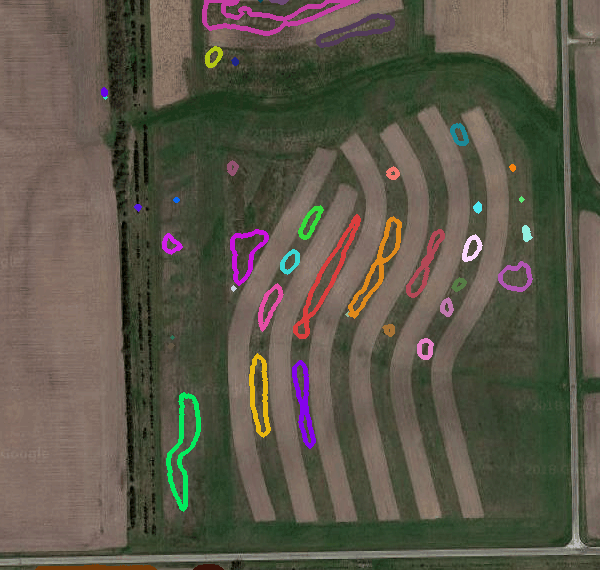
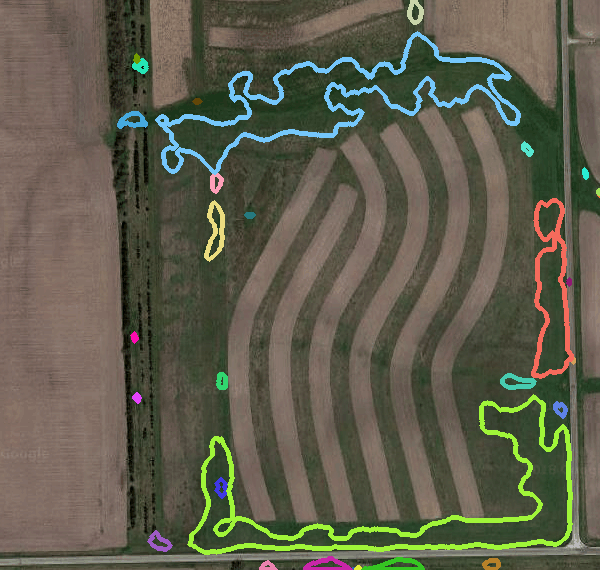
fixed image click reoutline bug

diff --git a/web/js/info.js b/web/js/info.js
@@ -43,8 +43,6 @@ function removeAdditionalInfo() {
 }
 
 window.addEventListener('load', function() {
-    console.log("hello");
-    console.log(document.getElementById('additional-info-indication-two').innerHTML);
     if (document.getElementById('additional-info-indication-two').innerHTML.indexOf("organic") != -1) {
         var suggestionString = "Suggestion: ";
         suggestionString += "Less Fertilizer Required";

diff --git a/server.py b/server.py
@@ -4,10 +4,13 @@ from werkzeug.utils import secure_filename
 from src.soil_color import find_closest_soil_match_by_color
 from src.monthly_rainfall import weather
 from src.dominant_image_color import dominant_color
-
 import sys
 import cv2
 import numpy
+
+import logging
+log = logging.getLogger('werkzeug')
+log.setLevel(logging.ERROR)
 
 sys.path.insert(0, './src/')
 import map_to_image
@@ -31,15 +34,20 @@ def allowed_file(filename):
 
 
 def process_image(filename="assets/fields/generated_fields/field0.png", h=24, s=17, l=41):
+    print(filename)
     image = cv2.imread(filename, cv2.IMREAD_UNCHANGED)
     pipeline = HSLPipline(h, s, l, filename)
+    print(image)
     pipeline.process(image)
 
 @app.route('/', methods=['GET', 'POST'])
 def upload_file():
+    print("here0")
     if request.method == 'POST':
+        print("here1")
         # check if the post request has the file part
         if 'file' not in request.files:
+            print("here2")
             google = request.form['google']
             if google != '':
                 lat = google[google.find('@')+1:]
@@ -47,10 +55,7 @@ def upload_file():
                 lon = lat[1]
                 lat = lat[0]
                 global avg_rain
-                print(lat)
-                print(lon)
                 # avg_rain = weather(float(lat),float(lon))
-                print(avg_rain)
 
                 filename = 'google-maps1.png'
                 filepath = app.config['UPLOAD_FOLDER'] + '/' + filename
@@ -59,9 +64,7 @@ def upload_file():
                 process_image(filepath)
                 if 'favicon.ico' not in filename:
                     most_dominant_color = dominant_color(filepath)
-                    print(most_dominant_color)
                     soil_match = find_closest_soil_match_by_color(most_dominant_color, 'data/soil.json')
-                    print(soil_match)
                 return redirect(url_for('uploaded_file', filename=filename))
 
             return render_template('home.html')
@@ -72,13 +75,13 @@ def upload_file():
         # if user does not select file, browser also
         # submit an empty part without filename
         if file and allowed_file(file.filename) and coordinates != '':
+            print("here3")
             lat = coordinates
             lon = lat[lat.find(',')+1:]
             lat = lat[:lat.find(',')]
             # avg_rain = weather(float(lat),float(lon))
 
             filename = secure_filename(file.filename)
-            print(request.form['coordinates'])
             filepath = os.path.join(app.config['UPLOAD_FOLDER'], filename)
             file.save(filepath)
             process_image(filepath)
@@ -86,7 +89,6 @@ def upload_file():
             if 'favicon.ico' not in filename:
                 most_dominant_color = dominant_color(filepath)
                 soil_match = find_closest_soil_match_by_color(most_dominant_color, 'data/soil.json')
-                print(soil_match)
             
             return redirect(url_for('uploaded_file',
                                     filename=filename))
@@ -96,7 +98,7 @@ def upload_file():
 
 @app.route('/<filename>', methods=['GET', 'POST', 'OPTIONS'])
 def uploaded_file(filename):
-    filepath = app.config['UPLOAD_FOLDER'] + '/' + request.url[20:]
+    filepath = app.config['UPLOAD_FOLDER'] + '/' + request.url.split('/')[len(request.url.split('/')) - 1]
     if request.method == 'POST':
         rgb = request.get_json()
         rgb = numpy.uint8([[[rgb['B'],rgb['G'],rgb['R']]]])
@@ -122,7 +124,6 @@ def uploaded_file(filename):
 
 @app.route('/assets/<filename>')
 def send_assets(filename):
-    print("assests accesesd")
     return send_from_directory('assets', filename)
 
 @app.route('/css/<filename>')

diff --git a/src/vision/hslpipline.py b/src/vision/hslpipline.py
@@ -61,6 +61,7 @@ class HSLPipline:
         """
         # Step Blur0:
         self.__blur_0_input = source0
+        print(source0)
         (self.blur_0_output) = self.__blur(
             self.__blur_0_input, self.__blur_0_type, self.__blur_0_radius)
 
@@ -126,6 +127,8 @@ class HSLPipline:
         """
         if(type is BlurType.Box_Blur):
             ksize = int(2 * round(radius) + 1)
+            print(src)
+            print(ksize)
             return cv2.blur(src, (ksize, ksize))
         elif(type is BlurType.Gaussian_Blur):
             ksize = int(6 * round(radius) + 1)
